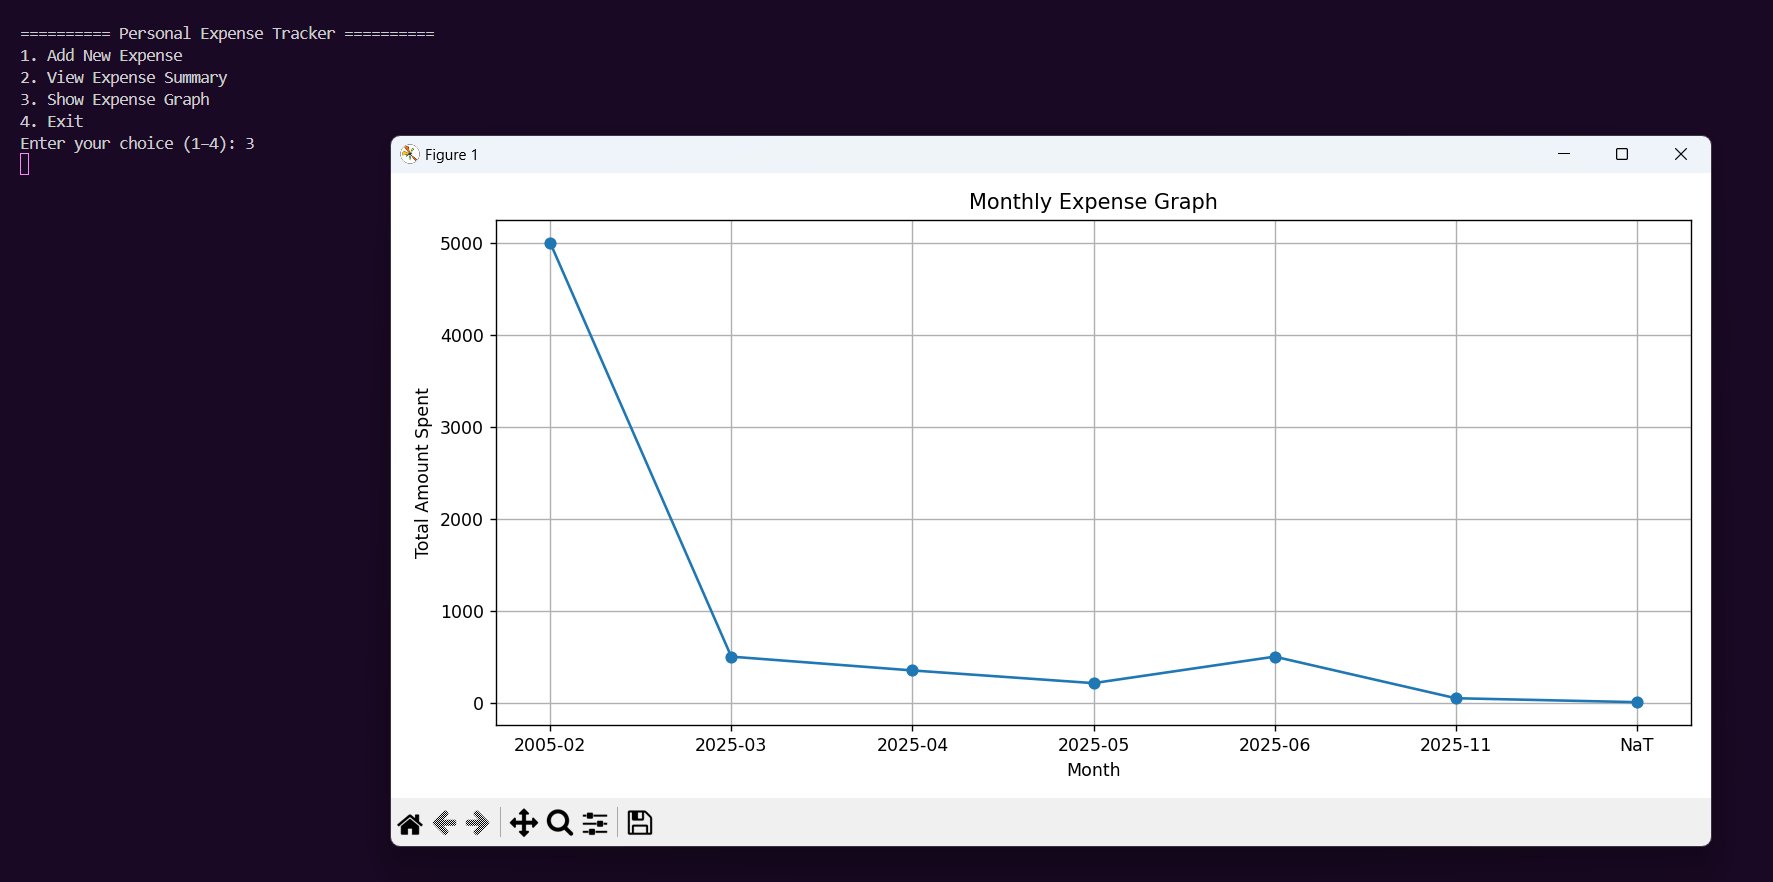
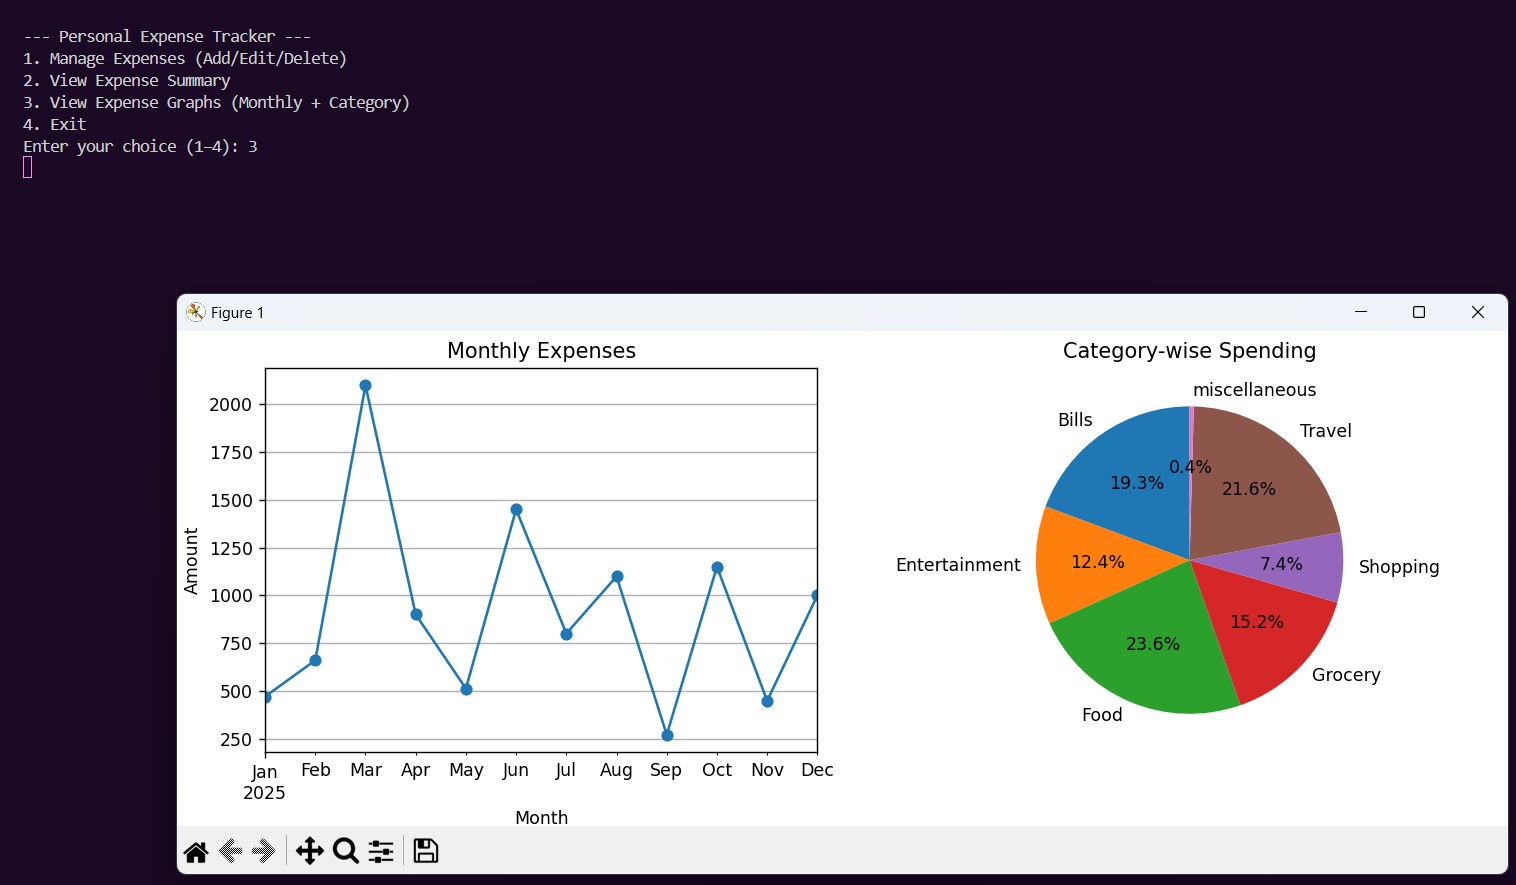
Updated README and added pie chart + edit/delete features

diff --git a/tracker.py b/tracker.py
@@ -1,87 +1,182 @@
 import csv
+import os
 import pandas as pd
 import matplotlib.pyplot as plt
 from datetime import datetime
 
-FILENAME = "expenses.csv"
+FILE_NAME = "expenses.csv"
 
-def add_expense():
-    date = input("Enter date (YYYY-MM-DD): ")
-    category = input("Enter category (e.g., Food, Transport, etc.): ")
-    amount = input("Enter amount: ")
-    description = input("Enter description (optional): ")
+def manage_expenses():
+    if not os.path.exists(FILE_NAME):
+        df = pd.DataFrame(columns=["Date", "Category", "Amount", "Description"])
+    else:
+        df = pd.read_csv(FILE_NAME)
 
-    with open(FILENAME, mode='a', newline='') as file:
-        writer = csv.writer(file)
-        writer.writerow([date, category, amount, description])
-    print("Expense added successfully.\n")
+    while True:
+        print("\nWhat would you like to do?")
+        print("1. Add Expense")
+        print("2. Edit Expense")
+        print("3. Delete Expense")
+        print("4. View Current Expenses")
+        print("5. Go Back to Main Menu")
 
-def view_summary():
-    try:
-        df = pd.read_csv(FILENAME, names=["Date", "Category", "Amount", "Description"])
-        df["Amount"] = pd.to_numeric(df["Amount"], errors='coerce')
-        df["Date"] = pd.to_datetime(df["Date"], errors='coerce')
+        choice = input("Enter your choice (1–5): ")
 
-        if df.empty or df["Amount"].isnull().all():
-            print("No valid expense data found.\n")
-            return
+        if choice == '1':
+            # Add
+            date = input("Enter the date (YYYY-MM-DD): ")
+            category = input("Enter the category (e.g., Food, Rent): ")
+            amount = float(input("Enter the amount: "))
+            description = input("Enter a description (optional): ")
 
-        print("\n--- Expense Summary by Category ---")
-        print(df.groupby("Category")["Amount"].sum())
+            new_expense = pd.DataFrame({
+                "Date": [date],
+                "Category": [category],
+                "Amount": [amount],
+                "Description": [description]
+            })
 
-        print("\n--- Monthly Total Expenses ---")
-        df["Month"] = df["Date"].dt.to_period("M")
-        print(df.groupby("Month")["Amount"].sum())
+            df = pd.concat([df, new_expense], ignore_index=True)
+            print("Expense added.")
 
-        print("\n")
-    except FileNotFoundError:
-        print("No expenses recorded yet.\n")
+        elif choice == '2':
+            # Edit
+            if df.empty:
+                print("No expenses to edit.")
+                continue
 
-def show_graph():
-    try:
-        df = pd.read_csv(FILENAME, names=["Date", "Category", "Amount", "Description"])
-        df["Amount"] = pd.to_numeric(df["Amount"], errors='coerce')
-        df["Date"] = pd.to_datetime(df["Date"], errors='coerce')
-        df["Month"] = df["Date"].dt.to_period("M").astype(str)
+            print("Current Expenses:")
+            df_with_id = df.reset_index()
+            print(df_with_id.to_string(index=False))
+            try:
+                idx = int(input("Enter the ID of the expense to edit: "))
+                if idx in df_with_id['index'].values:
+                    date = input("Enter the new date (YYYY-MM-DD): ")
+                    category = input("Enter the new category: ")
+                    amount = float(input("Enter the new amount: "))
+                    description = input("Enter the new description (optional): ")
 
-        if df.empty or df["Amount"].isnull().all():
-            print("No valid data to plot.\n")
-            return
+                    df.loc[idx] = [date, category, amount, description]
+                    print("Expense updated.")
+                else:
+                    print("Invalid ID.")
+            except ValueError:
+                print("Please enter a valid number.")
 
-        monthly_expenses = df.groupby("Month")["Amount"].sum()
+        elif choice == '3':
+            # Delete
+            if df.empty:
+                print("No expenses to delete.")
+                continue
 
-        plt.figure(figsize=(10, 5))
-        monthly_expenses.plot(kind='line', marker='o')
-        plt.title("Monthly Expense Graph")
-        plt.xlabel("Month")
-        plt.ylabel("Total Amount Spent")
-        plt.grid(True)
-        plt.tight_layout()
-        plt.savefig("screenshot-graph.png")
-        plt.show()
-    except FileNotFoundError:
-        print("Expense file not found.\n")
+            print("Current Expenses:")
+            df_with_id = df.reset_index()
+            print(df_with_id.to_string(index=False))
+            try:
+                idx = int(input("Enter the ID of the expense to delete: "))
+                if idx in df_with_id['index'].values:
+                    df = df.drop(index=idx).reset_index(drop=True)
+                    print("Expense deleted.")
+                else:
+                    print("Invalid ID.")
+            except ValueError:
+                print("Please enter a valid number.")
+
+        elif choice == '4':
+            if df.empty:
+                print("No expenses recorded yet.")
+            else:
+                print("\nCurrent Expenses:")
+                print(df.reset_index().to_string(index=False))
+
+        elif choice == '5':
+            break
+        else:
+            print("Invalid choice. Please enter a number between 1 and 5.")
+
+        # Save after every change
+        df.to_csv(FILE_NAME, index=False)
+
+
+def show_summary():
+    if not os.path.exists(FILE_NAME):
+        print("No expenses recorded yet.")
+        return
+
+    df = pd.read_csv(FILE_NAME)
+    if df.empty:
+        print("No expenses recorded yet.")
+        return
+
+    df['Date'] = pd.to_datetime(df['Date'], errors='coerce')
+    df = df.dropna(subset=['Date'])
+
+    df['Month'] = df['Date'].dt.to_period("M")
+    summary = df.groupby(['Month', 'Category'])['Amount'].sum().unstack().fillna(0)
+
+    print("\nExpense Summary (Monthly Breakdown):")
+    print(summary.round(2))
+
+
+def show_graphs():
+    if not os.path.exists(FILE_NAME):
+        print("No expenses recorded yet.")
+        return
+
+    df = pd.read_csv(FILE_NAME)
+    if df.empty:
+        print("No expenses recorded yet.")
+        return
+
+    df['Date'] = pd.to_datetime(df['Date'], errors='coerce')
+    df = df.dropna(subset=['Date'])
+
+    # Line graph - Monthly expenses
+    df['Month'] = df['Date'].dt.to_period("M")
+    monthly_summary = df.groupby('Month')['Amount'].sum()
+
+    plt.figure(figsize=(12, 5))
+
+    # Line Chart
+    plt.subplot(1, 2, 1)
+    monthly_summary.plot(kind='line', marker='o', title='Monthly Expenses')
+    plt.xlabel("Month")
+    plt.ylabel("Amount")
+    plt.grid(True)
+
+    # Pie Chart
+    plt.subplot(1, 2, 2)
+    category_totals = df.groupby('Category')['Amount'].sum()
+    category_totals.plot(kind='pie', autopct='%1.1f%%', startangle=90)
+    plt.title("Category-wise Spending")
+    plt.ylabel("")
+
+    plt.tight_layout()
+    plt.show()
+
 
 def main():
     while True:
-        print("========== Personal Expense Tracker ==========")
-        print("1. Add New Expense")
+        print("\n--- Personal Expense Tracker ---")
+        print("1. Manage Expenses (Add/Edit/Delete)")
         print("2. View Expense Summary")
-        print("3. Show Expense Graph")
+        print("3. View Expense Graphs (Monthly + Category)")
         print("4. Exit")
+
         choice = input("Enter your choice (1–4): ")
 
         if choice == '1':
-            add_expense()
+            manage_expenses()
         elif choice == '2':
-            view_summary()
+            show_summary()
         elif choice == '3':
-            show_graph()
+            show_graphs()
         elif choice == '4':
-            print("Exiting the Expense Tracker. Goodbye!")
+            print("Goodbye!")
             break
         else:
-            print("Invalid choice. Please enter a number between 1 and 4.\n")
+            print("Invalid choice. Please try again.")
+
 
 if __name__ == "__main__":
     main()
